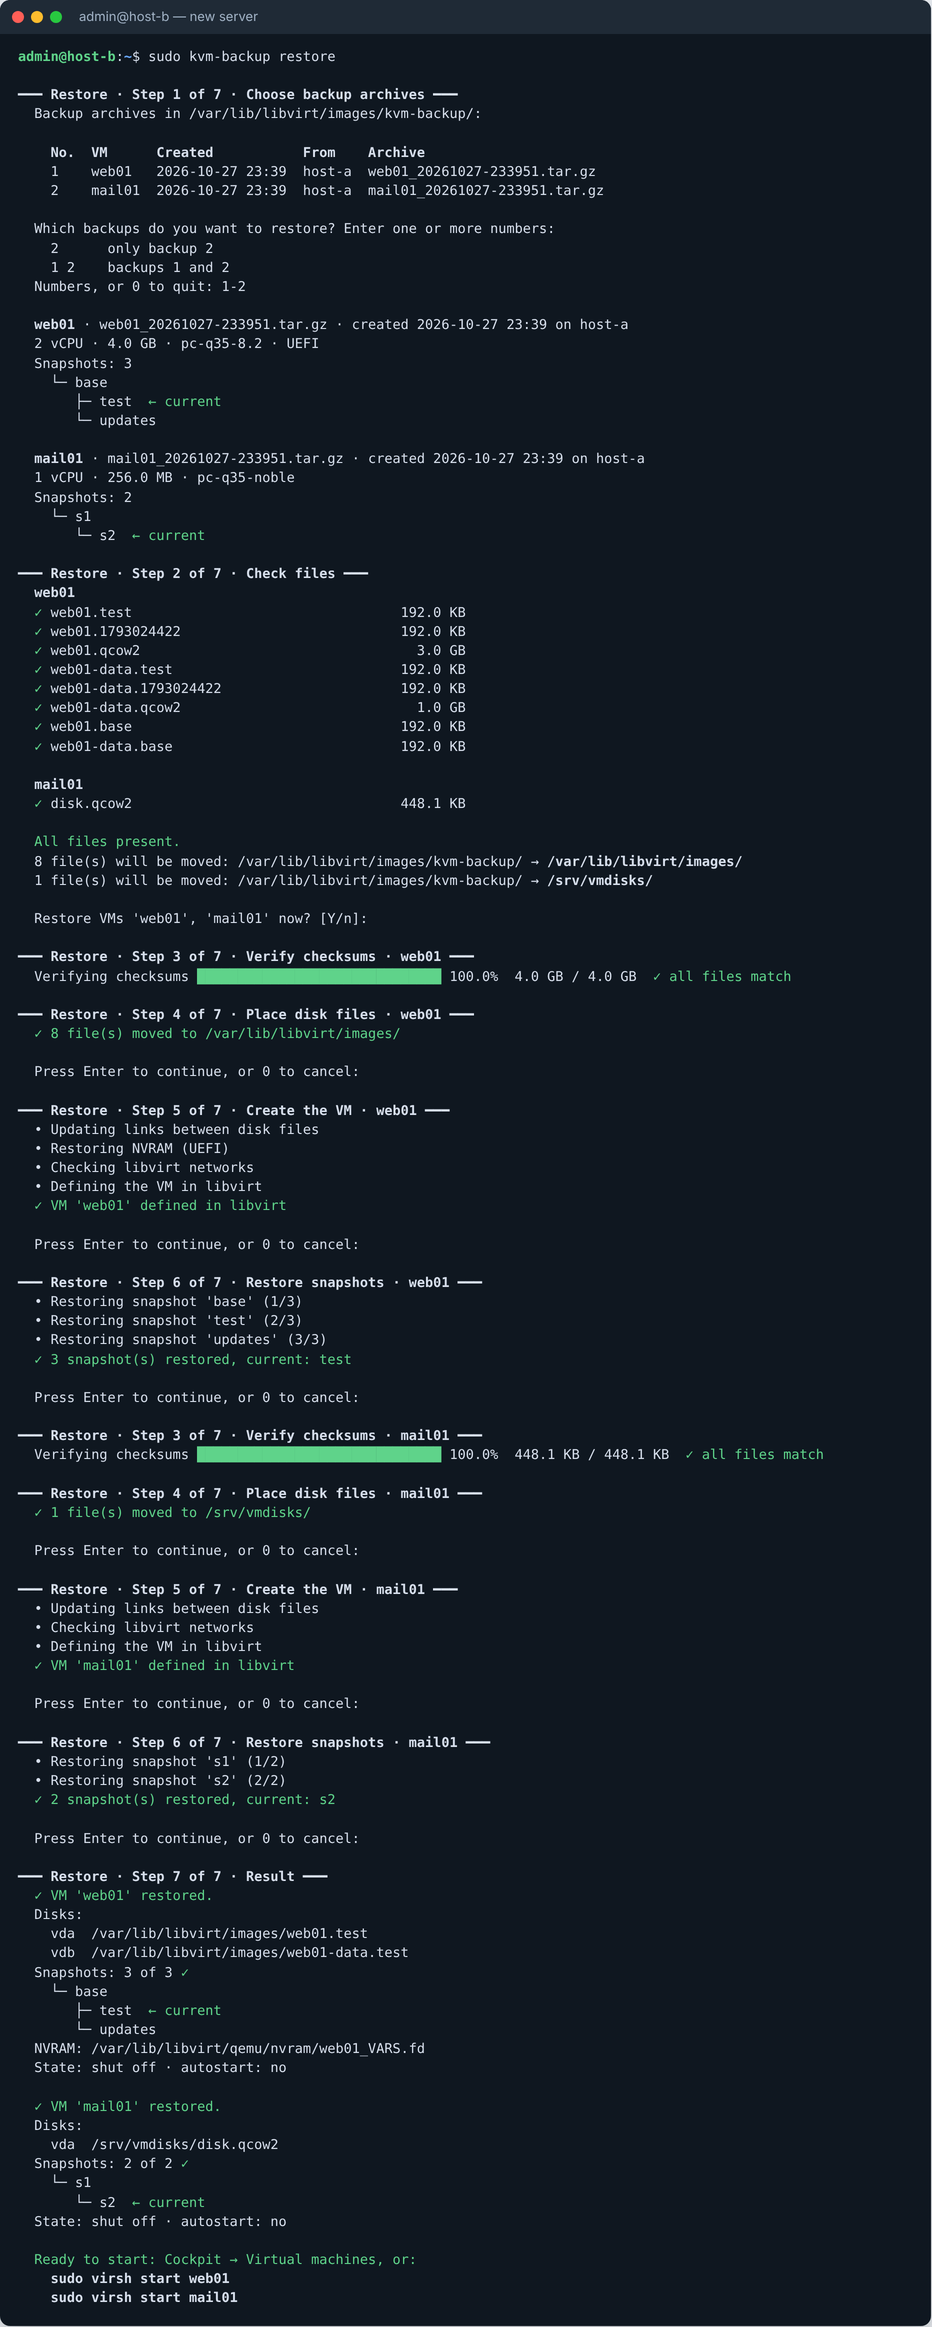
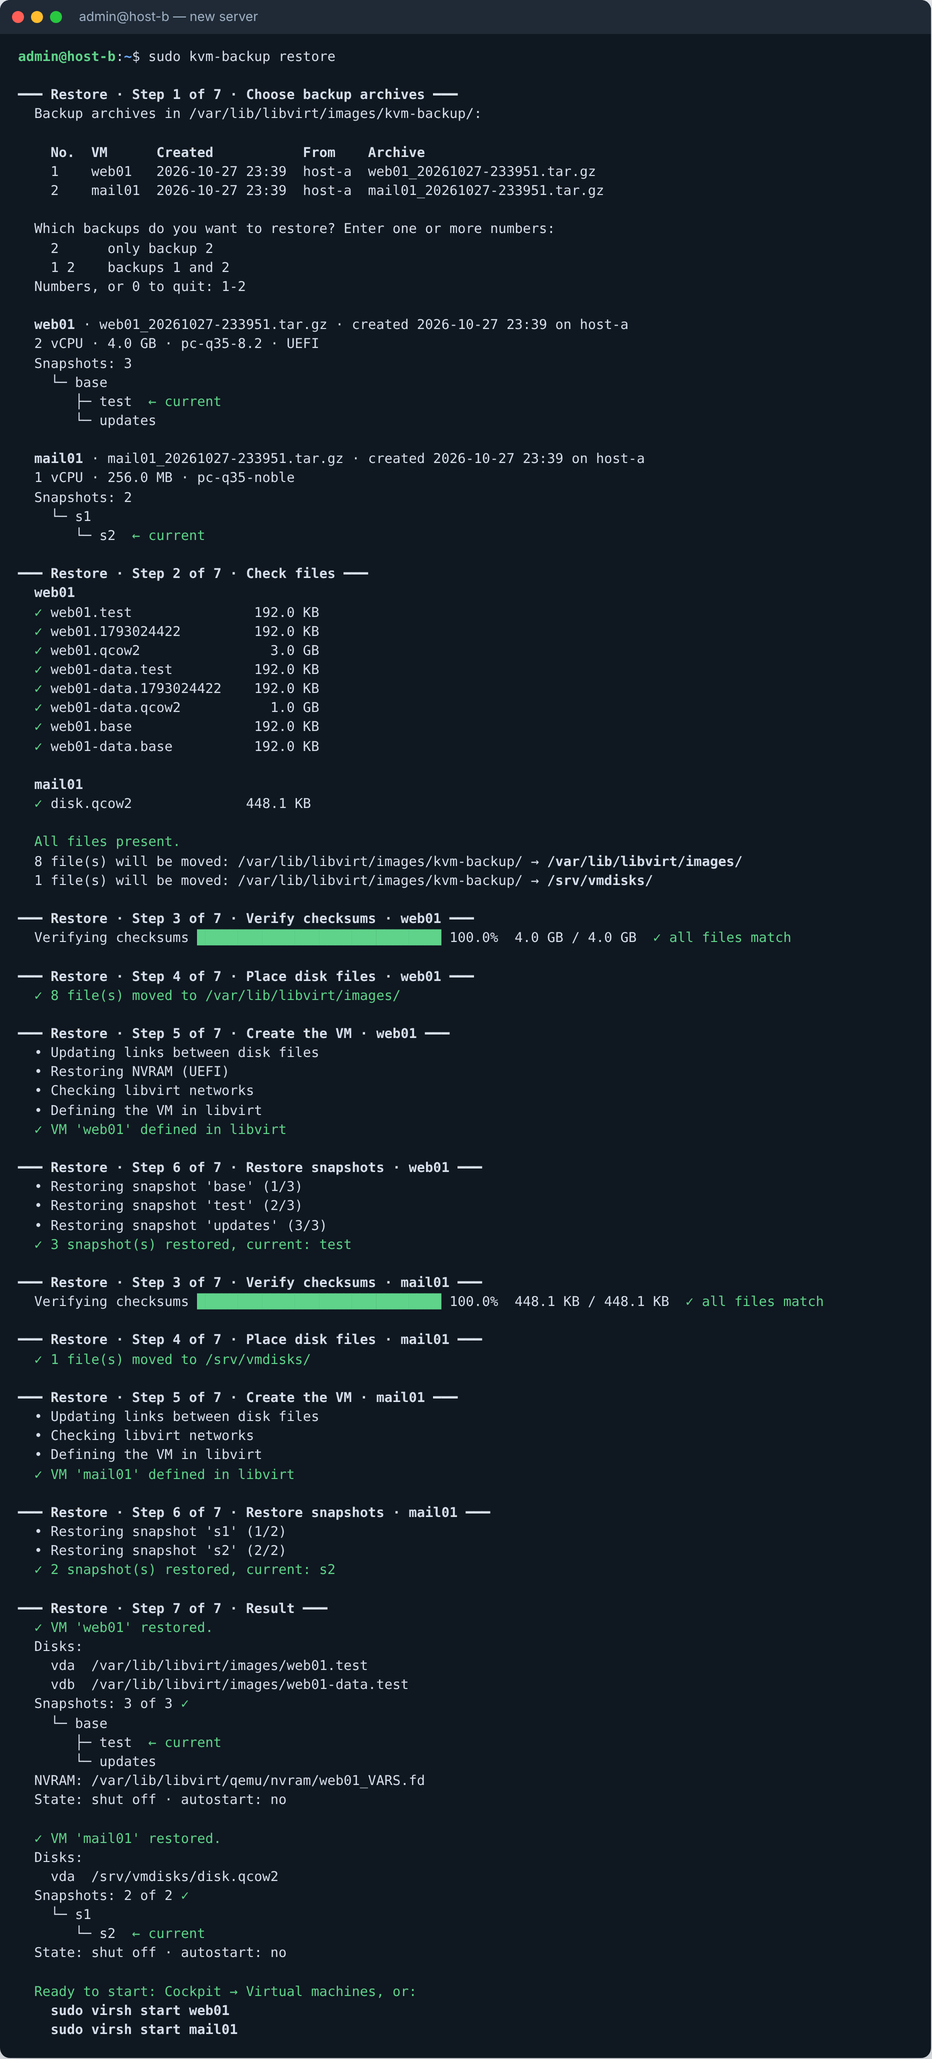
Restore: no questions once all files are present and checksums match
- The restore starts as soon as the file check passes.
- After a successful checksum check it runs to the result without pauses,
  also between several VMs. A mismatch still stops it; without checksums
  every step still waits for Enter.

Claude-Session: https://claude.ai/code/session_01B6oZBxwDXgi735Z33Mo7zh

diff --git a/kvmbackup/restore.py b/kvmbackup/restore.py
@@ -238,7 +238,8 @@ def run_restore(job, m, bdir, p, opts):
 
     try:
         # 1. Checksums
-        _phase(job, 3, "Verify checksums")
+        # Starts right after the user confirmed the restore (or the previous VM finished)
+        _phase(job, 3, "Verify checksums", ask_first=False)
         verified = False
         if not opts.get("verify", True) or not any(mf[f["name"]].get("sha256") for f in files):
             job.log("⚠ Checksums are not verified (skipped or not stored in the archive).")
@@ -409,7 +410,7 @@ def run_restore(job, m, bdir, p, opts):
         _done(job, f"✓ VM '{name}' defined in libvirt")
 
         # 8. Snapshots (parents before children, which preserves branches)
-        _phase(job, 6, "Restore snapshots")
+        _phase(job, 6, "Restore snapshots", ask_first=not verified)
         if not snap_xml:
             job.log("The VM has no snapshots.")
         total = max(len(snap_xml), 1)
@@ -445,7 +446,7 @@ def run_restore(job, m, bdir, p, opts):
             os.remove(src)
         except OSError as e:
             job.log(f"⚠ Could not delete {src}: {e}")
-    job.result = {"vm": name, "files": files, "snapshots": len(snap_xml),
+    job.result = {"vm": name, "files": files, "snapshots": len(snap_xml), "verified": verified,
                   "current": m.get("current_snapshot"), "nvram": ctx.get("nvram"), "warnings": warns}
 
 

diff --git a/kvmbackup/cli.py b/kvmbackup/cli.py
@@ -651,11 +651,8 @@ def cmd_restore(archive, assume_yes, verify):
         for (src, dst), n in moves.items():
             print(f"  {n} file(s) will be moved: {src}/ → {bold(dst + '/')}")
 
-        print()
+        # All files are present: start the restore without asking (Ctrl+C still rolls back)
         vm_names = [it["plan"]["name"] for it in items]
-        if not ask(f"  Restore {'VM' if len(items) == 1 else 'VMs'} {names(vm_names)} now?", True, assume_yes):
-            print("Cancelled.")
-            return 1
         job = TermJob("Restore", 7, confirm=not assume_yes)
         for it in items:
             job.label = it["plan"]["name"] if len(items) > 1 else ""
@@ -671,7 +668,8 @@ def cmd_restore(archive, assume_yes, verify):
     finally:
         shutil.rmtree(work, ignore_errors=True)
 
-    if not assume_yes:
+    # Without a checksum check every step waits for Enter; after a successful check it runs to the end
+    if not assume_yes and not all(r.get("verified") for _, _, r in restored):
         pause()
     step("Restore", 7, 7, "Result")
     for name, m, r in restored:

diff --git a/README.md b/README.md
@@ -46,11 +46,11 @@ Running the install command again updates kvm-backup to the latest version and a
 
 ## Restore (new server)
 
-Each step shows its result; the next one starts after you confirm with Enter. Entering 0 cancels the restore and rolls back the changes made for the VM being restored. Steps 3–6 run for each selected VM in turn.
+Steps 3–6 run for each selected VM in turn. If checksums are not verified (`--no-verify` or an archive without checksums), the tool waits for Enter after each step; entering 0 cancels and rolls back the changes made for the VM being restored.
 
 1. **Choose backup archives** from `/var/lib/libvirt/images/kvm-backup/`: one or several (one per VM), the same way as on the old server. The tool waits if nothing has been copied yet.
-2. **Check files.** Every file listed in the archive is checked for presence and size; missing files are listed and the check can be repeated after copying them.
-3. **Verify checksums.** If all files match, the restore goes on through steps 4 and 5 without asking; on a mismatch it stops before anything is changed.
+2. **Check files.** Every file listed in the archive is checked for presence and size; missing files are listed and the check can be repeated after copying them. When all files are present, the restore starts without asking (Ctrl+C cancels it and rolls back the VM being restored).
+3. **Verify checksums.** If all files match, the restore runs to the end without further questions; on a mismatch it stops before anything is changed.
 4. **Place disk files** at their original paths.
 5. **Create the VM** in libvirt (links between disk files, NVRAM, networks, storage pool).
 6. **Restore snapshots**, including branches and the current snapshot.
